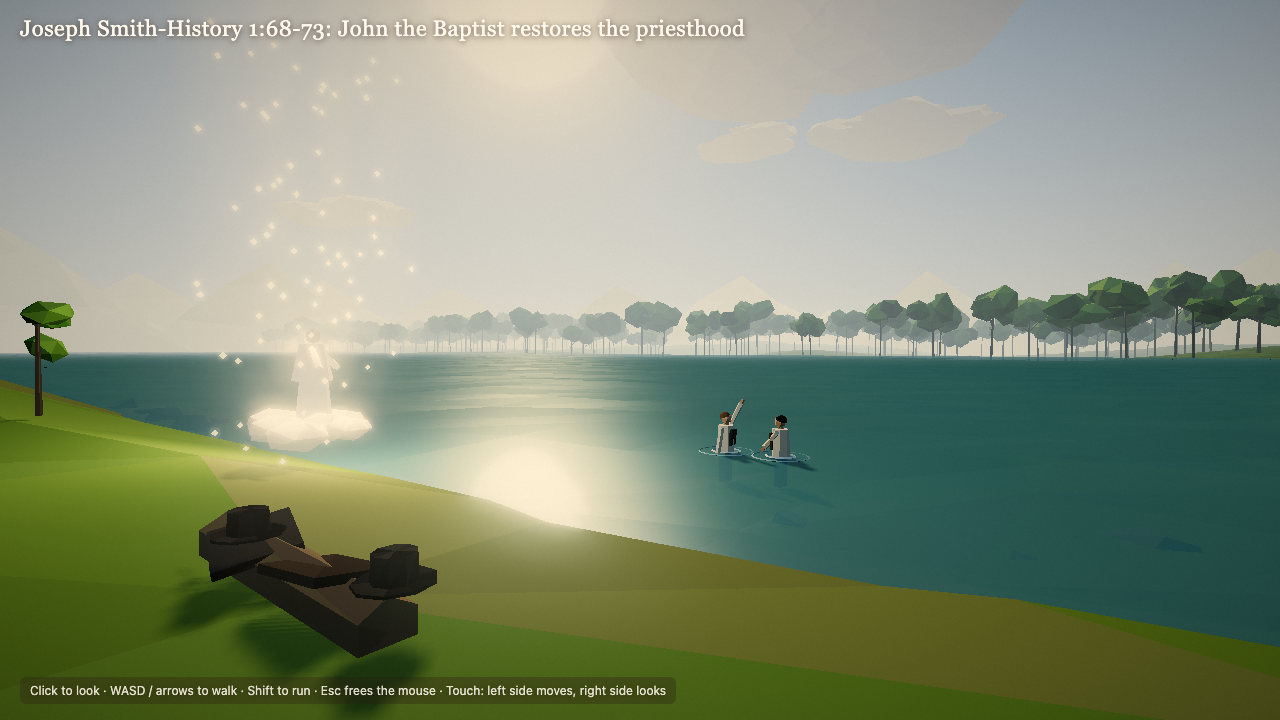
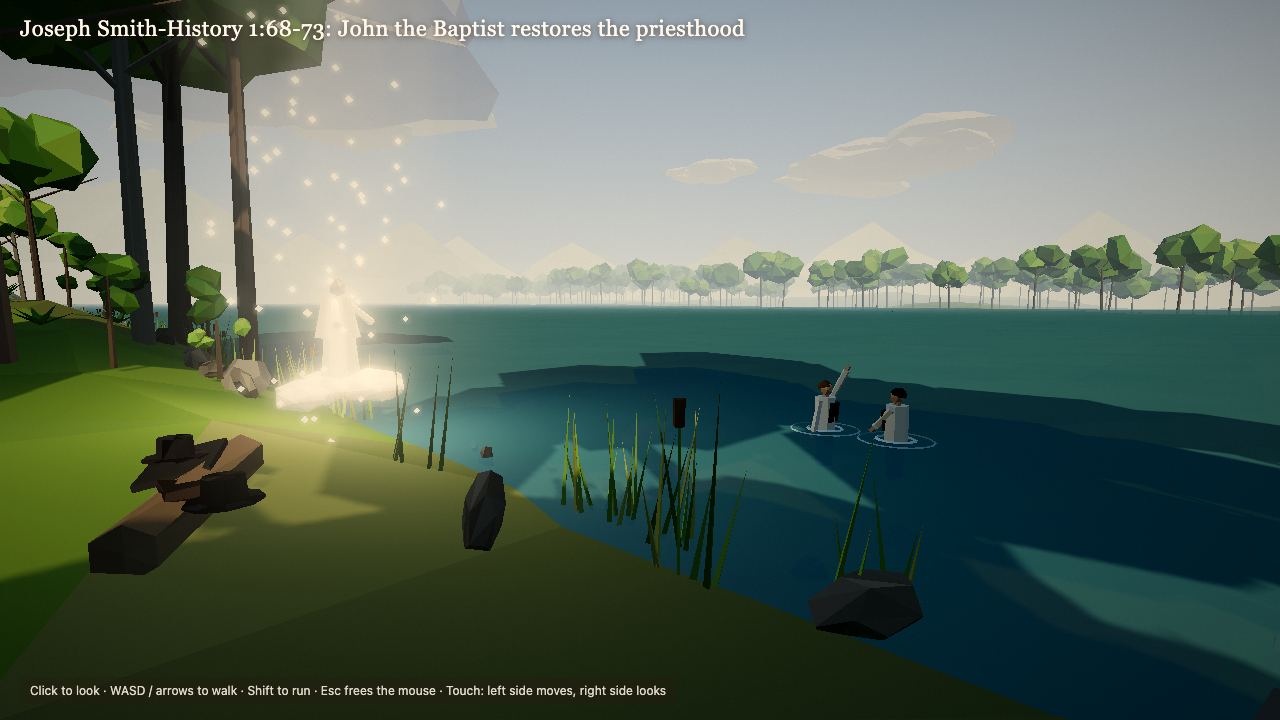
feat: polish lowpoly scenes pgp-07 to pgp-11

diff --git a/styles/lowpoly/scenes/pgp-11.js b/styles/lowpoly/scenes/pgp-11.js
@@ -3,15 +3,74 @@
 // Joseph and Oliver stand waist-deep in the river and baptize each other.
 import { hardwood, sapling, fern, log, settler, messenger, water, block } from './lib/pgp-07-kit.js';
 
-const START = [5, -2];
+const START = [4.4, -4.4];
 const JOSEPH = [-0.65, -14.8];
 const OLIVER = [0.65, -14.8];
 const JOHN = [-6, -8.2];
 const WATER = -0.35;
-const FOCUS = [-2.5, -14];
+const FOCUS = [-2.2, -11.4];
 const greens = ['#6f9a3c', '#7fa944', '#5f8a36', '#8db84e', '#557a32'];
 
 const riverFlats = Array.from({ length: 38 }, (_, i) => ({ x: -460 + i * 25, z: -100, r: 86, falloff: 10, height: -1.2 }));
+
+// Water's edge z for a given x: first point walking riverward where the ground dips under the surface.
+function shoreZ(ctx, x) {
+  for (let z = -3; z > -30; z -= 0.25) if (ctx.heightAt(x, z) < WATER + 0.05) return z;
+  return -12;
+}
+
+// Reeds, stones, and leaning trees along the near bank of the Susquehanna.
+function bank(ctx, view) {
+  const { THREE } = ctx;
+  const r = ctx.rand;
+  const reedColors = ['#7a9a44', '#8aa850', '#6a8a3a', '#a4a85a'];
+  for (let x = -60; x < 60; x += r.range(0.6, 1.6)) {
+    const zs = shoreZ(ctx, x);
+    const nearMen = Math.hypot(x - 0, zs + 14.8) < 3;
+    if (nearMen || Math.hypot(x - JOHN[0], zs - JOHN[1]) < 2.2 || Math.hypot(x - START[0], zs - START[1]) < 4.5) continue;
+    const cx = x + r.range(-0.4, 0.4), cz = zs + r.range(-0.6, 1.0);
+    const blades = 5 + Math.floor(r() * 6);
+    for (let i = 0; i < blades; i++) {
+      const h = r.range(0.7, 1.6);
+      const bx = cx + r.range(-0.35, 0.35), bz = cz + r.range(-0.35, 0.35);
+      ctx.solid.add(new THREE.ConeGeometry(0.035, h, 3).translate(0, h / 2, 0), {
+        position: [bx, Math.max(ctx.heightAt(bx, bz), WATER - 0.2), bz],
+        rotation: [r.range(-0.25, 0.25), r() * 3, r.range(-0.25, 0.25)],
+        color: r.pick(reedColors),
+        jitter: 0.1,
+      });
+    }
+    if (r() < 0.3) {
+      const h = r.range(1.1, 1.5);
+      const gy = Math.max(ctx.heightAt(cx, cz), WATER - 0.2);
+      ctx.solid.add(new THREE.CylinderGeometry(0.012, 0.015, h, 3), { position: [cx, gy + h / 2, cz], color: '#7a9a44' });
+      ctx.solid.add(new THREE.CylinderGeometry(0.05, 0.05, 0.22, 5), { position: [cx, gy + h - 0.08, cz], color: '#6a4a2e' });
+    }
+  }
+  for (let i = 0; i < 70; i++) {
+    const x = r.range(-45, 45);
+    const z = shoreZ(ctx, x) + r.range(-1.2, 1.8);
+    if (Math.hypot(x, z + 14.8) < 3 || Math.hypot(x - JOHN[0], z - JOHN[1]) < 2) continue;
+    if (Math.hypot(x - START[0], z - START[1]) < 4.5) continue;
+    const size = r.range(0.2, 0.6);
+    ctx.solid.add(new THREE.DodecahedronGeometry(size, 0), {
+      position: [x, ctx.heightAt(x, z) + size * 0.15, z],
+      rotation: [r() * 3, r() * 3, r() * 3],
+      scale: [1, r.range(0.45, 0.7), 1],
+      color: r.pick(['#7a7468', '#8a8478', '#6a665c', '#5e5a50']),
+      jitter: 0.1,
+    });
+  }
+  for (const [x, z, h] of [[9.5, -9.4, 14], [12.5, -8.2, 16], [-17, -9.6, 15], [-20, -7.4, 13], [8.6, -5.2, 12], [16, -9.6, 12], [-24, -9.2, 15], [-14, -4.2, 11]]) {
+    hardwood(ctx, { x, z, h, leaves: greens, canopy: 1.25, trunk: r.pick(['#5e5248', '#6b5e52', '#8a8478']) });
+  }
+  for (let i = 0; i < 40; i++) {
+    const x = r.range(-30, 30), z = r.range(-9.5, -3);
+    if (view(x, z) || ctx.heightAt(x, z) < WATER + 0.1) continue;
+    if (r() < 0.5) sapling(ctx, { x, z, leaf: r.pick(greens) });
+    else fern(ctx, { x, z, size: r.range(0.6, 1), color: r.pick(['#5f8f3a', '#6e9a42', '#4f7a32']) });
+  }
+}
 
 export default {
   title: 'Joseph Smith-History 1:68-73: John the Baptist restores the priesthood',
@@ -19,7 +78,7 @@ export default {
   fov: 62,
   exposure: 1.02,
 
-  sun: { direction: [-0.55, 0.5, -0.6], color: '#ffe6bc', intensity: 2.5 },
+  sun: { direction: [0.6, 0.5, 0.35], color: '#ffe6bc', intensity: 2.5 },
   light: { sky: '#a8c8e8', ground: '#4a5a30', hemi: 0.95 },
   sky: { top: '#5a8ccc', horizon: '#e4ecec', ground: '#a0b0a0', sunColor: '#fff0d0', glow: 1 },
   fog: { color: '#c4d2d4', near: 70, far: 520 },
@@ -29,7 +88,7 @@ export default {
   grade: { saturation: 1.1, contrast: 1.05, vignette: 0.42, shadowTint: '#203040', highlightTint: '#fff2d8' },
   shadow: { center: [0, -8], radius: 40 },
 
-  player: { start: START, yaw: Math.atan2(START[0] - FOCUS[0], START[1] - FOCUS[1]), pitch: -0.02, eye: 1.65, speed: 4 },
+  player: { start: START, yaw: Math.atan2(START[0] - FOCUS[0], START[1] - FOCUS[1]), pitch: -0.1, eye: 1.65, speed: 4 },
 
   terrain: {
     size: 1200,
@@ -47,7 +106,7 @@ export default {
   },
 
   scatter: [
-    { type: 'rock', count: 26, center: [0, -9], ring: [2, 40], arc: [-0.1, -Math.PI + 0.1], spacing: 3, seed: 4, avoid: [{ r: 5, x: JOHN[0], z: JOHN[1] }, { r: 4, x: 0, z: -15 }, { rect: [0, -40, 300, 50] }], props: { color: '#7a7468', size: 0.6 } },
+    { type: 'rock', count: 26, center: [0, -9], ring: [2, 40], arc: [-0.1, -Math.PI + 0.1], spacing: 3, seed: 4, avoid: [{ r: 5, x: JOHN[0], z: JOHN[1] }, { r: 5, x: START[0], z: START[1] }, { r: 4, x: 0, z: -15 }, { rect: [0, -40, 300, 50] }], props: { color: '#7a7468', size: 0.6 } },
   ],
 
   custom(ctx) {
@@ -84,8 +143,10 @@ export default {
       else fern(ctx, { x, z, color: r.pick(['#5f8f3a', '#6e9a42', '#4f7a32']) });
     }
 
-    const L = [0.8, -4.2];
-    log(ctx, { x: L[0], z: L[1], len: 2.6, rot: 1.45, radius: 0.2, color: '#8a7458', y: ctx.heightAt(...L) - 0.08 });
+    bank(ctx, view);
+
+    const L = [-1.6, -5.4];
+    log(ctx, { x: L[0], z: L[1], len: 2.6, rot: 1.1, radius: 0.2, color: '#8a7458', y: ctx.heightAt(...L) - 0.08 });
     const ly = ctx.heightAt(...L) + 0.2;
     ctx.solid.box(0.55, 0.06, 0.8, { position: [L[0] - 0.5, ly + 0.04, L[1]], rotation: [0.1, 1.2, 0.2], color: '#2e2c2a' });
     ctx.solid.box(0.5, 0.06, 0.75, { position: [L[0] + 0.5, ly + 0.04, L[1] + 0.05], rotation: [-0.1, 1.5, -0.15], color: '#3a2e26' });
@@ -108,7 +169,7 @@ export default {
     }
 
     const jy = ctx.heightAt(...JOHN) + 0.7;
-    messenger(ctx, { x: JOHN[0], z: JOHN[1], y: jy, face: [0, -14.8], scale: 1.08, arms: 'out', light: 30, distance: 14, halo: 3, haloOpacity: 0.45, emissive: 0.45 });
+    messenger(ctx, { x: JOHN[0], z: JOHN[1], y: jy, face: [0, -14.8], scale: 1.08, arms: 'out', light: 18, distance: 12, halo: 3, haloOpacity: 0.32, emissive: 0.34 });
     ctx.colliders.add({ x: JOHN[0], z: JOHN[1], w: 0.8, d: 0.8, bottom: jy - 2, top: jy + 2 });
     const cloudMat = new ctx.THREE.MeshLambertMaterial({ color: '#fffaf0', emissive: '#fff4dc', emissiveIntensity: 0.4, transparent: true, opacity: 0.5, flatShading: true, depthWrite: false });
     const puffs = [];

diff --git a/styles/lowpoly/scenes/pgp-07.js b/styles/lowpoly/scenes/pgp-07.js
@@ -4,7 +4,8 @@ import { hardwood, sapling, fern, log, settler, messenger, frame } from './lib/p
 
 const JOSEPH = [0, 0];
 const LIGHT = [0, -2.2];
-const START = [2.4, 9.5];
+const START = [4.4, 4.6];
+const VIEW = [0, -1.1];
 
 const greens = ['#7fa944', '#8db84e', '#6f9a3c', '#9cc25a', '#5f8a36'];
 
@@ -22,7 +23,7 @@ export default {
   grade: { saturation: 1.08, contrast: 1.05, vignette: 0.5, shadowTint: '#203028', highlightTint: '#fff4d8' },
   shadow: { center: [0, 0], radius: 45 },
 
-  player: { start: START, yaw: Math.atan2(START[0] - LIGHT[0], START[1] - LIGHT[1]), pitch: 0.16, eye: 1.65, speed: 3.5 },
+  player: { start: START, yaw: Math.atan2(START[0] - VIEW[0], START[1] - VIEW[1]), pitch: 0.12, eye: 1.65, speed: 3.5 },
 
   terrain: {
     size: 900,
@@ -39,8 +40,8 @@ export default {
   },
 
   effects: [
-    { type: 'beam', at: LIGHT, height: 120, radiusBottom: 3.4, radiusTop: 6, color: '#fff3d4', opacity: 0.42 },
-    { type: 'beam', at: LIGHT, height: 120, radiusBottom: 2.2, radiusTop: 3.5, color: '#fffaf0', opacity: 0.3 },
+    { type: 'beam', at: LIGHT, height: 120, radiusBottom: 3.4, radiusTop: 6, color: '#fff3d4', opacity: 0.26 },
+    { type: 'beam', at: LIGHT, height: 120, radiusBottom: 2.2, radiusTop: 3.5, color: '#fffaf0', opacity: 0.16 },
     { type: 'ring', position: [JOSEPH[0], 0.06, JOSEPH[1]], radius: 2.6, width: 1.6, color: '#fff0c4', opacity: 0.55 },
     { type: 'motes', at: LIGHT, radius: 4, height: 18, count: 260, color: '#fff6dc' },
   ],
@@ -83,13 +84,13 @@ export default {
       x: JOSEPH[0], z: JOSEPH[1], yaw: Math.PI, pose: 'kneel', arms: 'pray',
       coatOff: true, shirt: '#e6dcc6', vest: '#5a4636', pants: '#4a4038', hair: '#7a5634', skin: '#e0b090', scale: 0.95,
     });
-    const hatAt = frame(JOSEPH[0], JOSEPH[1], 0)(0.9, 0.7);
+    const hatAt = frame(JOSEPH[0], JOSEPH[1], 0)(-0.9, 0.6);
     ctx.solid.add(new ctx.THREE.CylinderGeometry(0.24, 0.24, 0.02, 9), { position: [hatAt[0], ctx.heightAt(...hatAt) + 0.03, hatAt[1]], color: '#2a2622' });
     ctx.solid.add(new ctx.THREE.CylinderGeometry(0.13, 0.14, 0.17, 9), { position: [hatAt[0], ctx.heightAt(...hatAt) + 0.12, hatAt[1]], color: '#2a2622' });
 
     for (const sx of [-0.85, 0.85]) {
-      const x = LIGHT[0] + sx, z = LIGHT[1] - 0.6;
-      messenger(ctx, { x, z, y: ctx.heightAt(x, z) + 2.3, face: [JOSEPH[0], JOSEPH[1] + 2], scale: 1.08, arms: sx > 0 ? 'out' : 'down', light: 22, distance: 16, halo: 3.2, haloOpacity: 0.45, emissive: 0.35 });
+      const x = LIGHT[0] + sx, z = LIGHT[1] - 0.3;
+      messenger(ctx, { x, z, y: ctx.heightAt(x, z) + 2.1, face: [JOSEPH[0], JOSEPH[1] + 2], scale: 1.12, arms: sx > 0 ? 'out' : 'down', light: 22, distance: 16, halo: 3.4, haloOpacity: 0.3, emissive: 0.22 });
     }
   },
 };

diff --git a/styles/lowpoly/scenes/lib/pgp-07-kit.js b/styles/lowpoly/scenes/lib/pgp-07-kit.js
@@ -150,16 +150,24 @@ export function settler(ctx, s) {
     parent.add(m);
     return m;
   };
-  const hip = { stand: 0.85, kneel: 0.5, sit: 0.47, sleep: 0.85 }[pose];
+  const hip = { stand: 0.85, kneel: 0.4, sit: 0.47, sleep: 0.85 }[pose];
+  const hipZ = pose === 'kneel' ? -0.08 : 0;
+  const waist = new THREE.Group();
+  waist.position.set(0, hip, hipZ);
+  waist.rotation.x = pose === 'kneel' ? 0.2 : 0;
+  g.add(waist);
   const upper = new THREE.Group();
-  upper.position.y = hip - 0.85;
-  g.add(upper);
+  upper.position.set(0, -0.85, -hipZ);
+  waist.add(upper);
   const legColor = kind === 'woman' ? dress : pants;
 
   if (kind === 'woman') {
     if (pose === 'stand') add(new THREE.CylinderGeometry(0.2, 0.36, 0.95, 8).translate(0, 0.475, 0), dress, 0, 0, 0);
     else if (pose === 'sit') add(new THREE.BoxGeometry(0.5, 0.2, 0.55), dress, 0, 0.5, 0.2);
-    else add(new THREE.BoxGeometry(0.5, 0.45, 0.5), dress, 0, 0.22, -0.05);
+    else {
+      add(new THREE.BoxGeometry(0.5, 0.4, 0.46), dress, 0, 0.2, -0.08);
+      add(new THREE.BoxGeometry(0.46, 0.14, 0.62), dress, 0, 0.07, -0.08);
+    }
     if (apron && pose === 'stand') add(new THREE.BoxGeometry(0.34, 0.7, 0.04), apron, 0, 0.55, 0.25, [-0.17, 0, 0]);
   } else if (pose === 'stand') {
     for (const sd of [-1, 1]) {
@@ -168,9 +176,9 @@ export function settler(ctx, s) {
     }
   } else if (pose === 'kneel') {
     for (const sd of [-1, 1]) {
-      add(new THREE.BoxGeometry(0.15, 0.44, 0.17), legColor, sd * 0.1, 0.28, 0.02, [-0.15, 0, 0]);
-      add(new THREE.BoxGeometry(0.14, 0.13, 0.5), legColor, sd * 0.1, 0.07, -0.2);
-      add(new THREE.BoxGeometry(0.13, 0.08, 0.2), '#231d18', sd * 0.1, 0.06, -0.5);
+      add(new THREE.BoxGeometry(0.16, 0.4, 0.18), legColor, sd * 0.1, 0.24, 0.04, [-0.55, 0, 0]);
+      add(new THREE.BoxGeometry(0.15, 0.14, 0.52), legColor, sd * 0.1, 0.07, -0.08);
+      add(new THREE.BoxGeometry(0.13, 0.16, 0.1), '#231d18', sd * 0.1, 0.08, -0.36, [0.5, 0, 0]);
     }
   } else if (pose === 'sit') {
     for (const sd of [-1, 1]) {

diff --git a/styles/lowpoly/scenes/pgp-09.js b/styles/lowpoly/scenes/pgp-09.js
@@ -3,7 +3,7 @@
 import { hardwood, sapling, settler, messenger, railFence, farmhouse, field, frame } from './lib/pgp-07-kit.js';
 
 const BOX = [-35, 0];
-const START = [-30, 3.4];
+const START = [-30.3, -0.6];
 const autumn = ['#6f8a3a', '#7d9440', '#c9a83a', '#d8b848', '#cf7a2e', '#b8562a', '#8a9a40'];
 
 function stoneBox(ctx) {
@@ -86,7 +86,7 @@ export default {
   grade: { saturation: 1.1, contrast: 1.05, vignette: 0.4, shadowTint: '#283040', highlightTint: '#fff2d8' },
   shadow: { center: [-35, 0], radius: 40 },
 
-  player: { start: START, yaw: Math.atan2(START[0] - (BOX[0] - 0.4), START[1] - (BOX[1] - 0.3)), pitch: -0.22, eye: 1.65, speed: 4 },
+  player: { start: START, yaw: Math.atan2(START[0] - (BOX[0] - 0.6), START[1] - (BOX[1] - 0.1)), pitch: -0.16, eye: 1.65, speed: 4 },
 
   terrain: {
     size: 1300,
@@ -152,8 +152,8 @@ export default {
     const [hx, hz] = frame(BOX[0], BOX[1], 0)(1.1, 1.5);
     ctx.solid.add(new ctx.THREE.CylinderGeometry(0.24, 0.24, 0.02, 9), { position: [hx, ctx.heightAt(hx, hz) + 0.03, hz], color: '#1e1b1a' });
     ctx.solid.add(new ctx.THREE.CylinderGeometry(0.13, 0.14, 0.17, 9), { position: [hx, ctx.heightAt(hx, hz) + 0.12, hz], color: '#1e1b1a' });
-    const m = [BOX[0] - 1.6, BOX[1] - 1.4];
-    messenger(ctx, { x: m[0], z: m[1], y: ctx.heightAt(...m) + 0.25, face: [BOX[0] + 0.2, BOX[1] + 1.2], scale: 1.08, arms: 'out', light: 16, distance: 10, halo: 3.2, haloOpacity: 0.5, emissive: 0.55 });
+    const m = [BOX[0] - 1.2, BOX[1] - 2.4];
+    messenger(ctx, { x: m[0], z: m[1], y: ctx.heightAt(...m) + 0.25, face: [BOX[0] + 0.2, BOX[1] + 1.2], scale: 1.08, arms: 'out', light: 10, distance: 10, halo: 3.0, haloOpacity: 0.3, emissive: 0.32 });
     ctx.colliders.add({ x: m[0], z: m[1], w: 0.7, d: 0.7, bottom: ctx.heightAt(...m) - 1, top: ctx.heightAt(...m) + 2.2 });
   },
 };

diff --git a/styles/lowpoly/scenes/pgp-08.js b/styles/lowpoly/scenes/pgp-08.js
@@ -6,7 +6,7 @@ const F = 0.05;
 const W = 8, L = 10, KNEE = 1.0, RIDGE = 3.4;
 const JOSEPH = [-2.35, -1.3];
 const MORONI = [-0.55, -1.3];
-const START = [1.3, 3.9];
+const START = [0.7, 2.3];
 
 const logColor = ['#7a5a3e', '#6e5036', '#84654a'];
 const board = ['#8a6a48', '#7d5f40', '#94744f'];
@@ -114,7 +114,7 @@ export default {
   grade: { saturation: 1.05, contrast: 1.06, vignette: 0.55, shadowTint: '#2a2440', highlightTint: '#fff2d8' },
   shadow: { center: [0, 0], radius: 12 },
 
-  player: { start: START, yaw: Math.atan2(START[0] - (MORONI[0] - 0.6), START[1] - MORONI[1]), pitch: 0.02, eye: 1.6, speed: 2.2 },
+  player: { start: START, yaw: Math.atan2(START[0] - (MORONI[0] - 0.75), START[1] - MORONI[1]), pitch: -0.02, eye: 1.6, speed: 2.2 },
 
   terrain: {
     size: 300,
@@ -135,12 +135,12 @@ export default {
     furnishings(ctx);
     settler(ctx, {
       x: JOSEPH[0], z: JOSEPH[1], y: F + 0.12, yaw: Math.PI / 2, pose: 'sit', arms: 'lap',
-      coatOff: true, shirt: '#cfc2a8', vest: '#cfc2a8', pants: '#b8a88c', skin: '#d8a07a', hair: '#5a3a22', collide: false,
+      coatOff: true, shirt: '#d8ccb2', vest: '#a89676', pants: '#7a6a54', skin: '#d8a07a', hair: '#5a3a22', collide: false,
     });
     ctx.colliders.add({ x: JOSEPH[0], z: JOSEPH[1], w: 0.6, d: 0.6, bottom: F, top: F + 1.6 });
     messenger(ctx, {
       x: MORONI[0], z: MORONI[1], y: F + 0.35, face: JOSEPH, scale: 1.08, arms: 'out',
-      light: 30, distance: 12, color: '#fff4dc', halo: 3.4, haloOpacity: 0.6, emissive: 0.75,
+      light: 17, distance: 12, color: '#fff4dc', halo: 3.0, haloOpacity: 0.38, emissive: 0.95,
     });
     ctx.colliders.add({ x: MORONI[0], z: MORONI[1], w: 0.7, d: 0.7, bottom: F, top: F + 2.2 });
     const glowFloor = new ctx.THREE.Mesh(

diff --git a/styles/lowpoly/scenes/pgp-10.js b/styles/lowpoly/scenes/pgp-10.js
@@ -4,7 +4,7 @@ import { box, block, bed, chair, table, settler, candle, pointLight, flame } fro
 
 const F = 0.05;
 const W = 7, D = 6, H = 2.55;
-const START = [-1.1, 2.3];
+const START = [-0.75, 1.45];
 const TABLE = [0.55, -1.0];
 
 const plaster = '#d9ccb0';
@@ -143,7 +143,7 @@ export default {
   grade: { saturation: 1.05, contrast: 1.06, vignette: 0.5, shadowTint: '#2a2430', highlightTint: '#fff0d8' },
   shadow: { center: [0, 0], radius: 10 },
 
-  player: { start: START, yaw: Math.atan2(START[0] - TABLE[0], START[1] - TABLE[1]), pitch: -0.12, eye: 1.6, speed: 2.2 },
+  player: { start: START, yaw: Math.atan2(START[0] - (TABLE[0] + 0.25), START[1] - TABLE[1]), pitch: -0.14, eye: 1.6, speed: 2.2 },
 
   terrain: {
     size: 300,
@@ -167,5 +167,6 @@ export default {
       x: TABLE[0] + 1.1, z: TABLE[1], y: F, yaw: -Math.PI / 2, pose: 'sit', arms: 'write',
       coat: '#3a2e26', vest: '#6a5a3a', pants: '#4a4036', hair: '#2a1e16', skin: '#dcaa88', collide: false,
     });
+    pointLight(ctx, { x: TABLE[0] - 0.4, y: F + 1.7, z: TABLE[1] + 1.1, color: '#ffe2b8', intensity: 2.4, distance: 4 });
   },
 };
